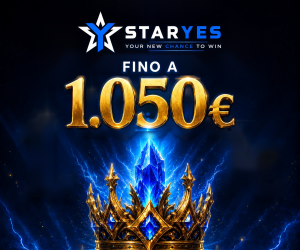
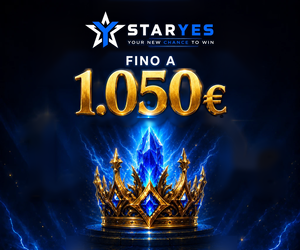
Redo 300x250: no cropped elements, master-density HD, sharper resampling
- Objects (crown, orb, star, podiums) kept whole with bottom space
  proportional to the master; CTA margins increased.
- Rendered directly from master at 960x800 (same density as the
  1024x1536 masters) and at exact 300x250, single Lanczos resample.

Claude-Session: https://claude.ai/code/session_0176yRQt6RuLzx2j9KUFoMCX

diff --git a/tools/build_300x250.py b/tools/build_300x250.py
@@ -1,0 +1,81 @@
+"""300x250 da master 320x480 (forniti a 1024x1536).
+Coordinate di layout in unita' di design 1200x1000; F = scala di render
+(0.8 -> 960x800, stessa densita' del master; 0.25 -> 300x250)."""
+import sys, lib
+from lib import *
+W,H=1200,1000
+SA=1.1725  # ambient: master scalato a copertura larghezza
+
+def headline_rows(cv,E,B,rows,k,y,gap_x=20,gap_y=-5):
+    for row in rows:
+        ws=[(B[key][2]-B[key][0])*k for key in row]; hs=[(B[key][3]-B[key][1])*k for key in row]
+        x=(W-(sum(ws)+gap_x*(len(row)-1)))/2
+        for key,ww in zip(row,ws): paste(cv,*E[key],x,y,k); x+=ww+gap_x
+        y+=max(hs)+gap_y
+    return y
+
+def stack(cv,E,B,keys,gaps,k,y):
+    for key,g in zip(keys,gaps+[0]):
+        ww=(B[key][2]-B[key][0])*k; hh=(B[key][3]-B[key][1])*k
+        paste(cv,*E[key],(W-ww)/2,y,k); y+=hh+g
+    return y
+
+def slide1():
+    src=load(1)
+    B={'scopri':(160,70,865,195),'bonus':(205,192,840,455),'casino':(195,455,850,710),'oggi':(320,712,705,845)}
+    M={k:textmask(src,[b]) for k,b in B.items()}
+    allm=np.zeros_like(M['scopri'])
+    for m in M.values(): allm|=m
+    pl=plate(src,allm)
+    amb=ambient(pl,[(190,800,840,1300),(100,1300,925,1510)])
+    s=0.60; dy=945-1492*s   # CTA bottom a 945 (margine come il top)
+    cv=compose_bg(pl,amb,W,H,SA,-560,s,(W-1024*s)/2,dy,[(225,790,800,1300),(105,1310,920,1505)],f=22)
+    E={key:element(src,M[key],B[key]) for key in B}
+    y=headline_rows(cv,E,B,[['scopri'],['bonus','casino'],['oggi']],0.78,52)
+    return cv,(y,835*s+dy)
+
+def slide5():
+    src=load(5)
+    B={'confronta':(262,62,798,195),'imigliori':(242,195,808,327),'bonus':(162,328,872,560),'casino':(148,560,897,788)}
+    M={k:textmask(src,[b]) for k,b in B.items()}
+    allm=np.zeros_like(M['bonus'])
+    for m in M.values(): allm|=m
+    pl=plate(src,allm)
+    amb=ambient(pl,[(300,740,730,1180),(10,1150,1014,1330),(120,1300,905,1510)])
+    s=0.60; dy=945-1484*s
+    cv=compose_bg(pl,amb,W,H,SA,-560,s,(W-1024*s)/2,dy,[(150,500,875,1150),(140,1150,885,1330),(125,1300,900,1510)],f=32)
+    E={key:element(src,M[key],B[key]) for key in B}
+    y=headline_rows(cv,E,B,[['confronta','imigliori'],['bonus','casino']],0.715,70,gap_x=22,gap_y=0)
+    return cv,(y,775*s+dy)
+
+def brand(i,B,k,top,gaps,s,obj_bottom_src,obj_bottom_canvas,logo_blue=False,sa=SA,amb_boxes=None):
+    src=load(i)
+    M={key:textmask(src,[B[key]],blue=(logo_blue and key=='logo')) for key in B}
+    allm=rectmask(src.shape,[B['logo']])|M['fino']|M['amt']
+    pl=plate(src,allm)
+    dy=obj_bottom_canvas-obj_bottom_src*s
+    amb=ambient(pl,amb_boxes) if amb_boxes else pl
+    cv=compose_bg(pl,amb,W,H,sa,0,s,(W-1024*s)/2,dy,[(70,-300,954,1836)],f=40)
+    E={key:element(src,M[key],B[key]) for key in B}
+    y=stack(cv,E,B,['logo','fino','amt'],gaps,k,top)
+    return cv,(y,dy)
+
+def slide2():
+    B={'logo':(120,58,895,288),'fino':(355,312,665,388),'amt':(68,393,978,688)}
+    # corona intera: punta cristallo 680 -> base piattaforma 1500
+    return brand(2,B,0.68,42,[18,4],0.585,1536,1000,logo_blue=True,amb_boxes=[(225,805,810,900)])  # punte corona tolte dallo sfondo laterale
+def slide3():
+    B={'logo':(195,80,840,285),'fino':(380,340,655,408),'amt':(155,415,875,672)}
+    # podio intero fino a 1450, spazio pavimento sotto come nel master
+    return brand(3,B,0.70,42,[22,6],0.60,1450,950)
+def slide4():
+    B={'logo':(165,92,855,232),'fino':(395,282,625,348),'amt':(220,348,825,568)}
+    return brand(4,B,0.84,46,[30,6],0.58,1445,950)
+
+if __name__=='__main__':
+    F=float(sys.argv[1]); out=sys.argv[2]
+    lib.setF(F)
+    names={1:'01_scopri-bonus-casino',2:'02_staryes-1050',3:'03_netwin-500',4:'04_pokerstars-310',5:'05_confronta-bonus-casino'}
+    for i,fn in [(1,slide1),(2,slide2),(3,slide3),(4,slide4),(5,slide5)]:
+        cv,info=fn()
+        save(cv,f'{out}/{names[i]}.png'); print(i,cv.shape,info)

diff --git a/tools/lib.py b/tools/lib.py
@@ -1,5 +1,10 @@
 import cv2, numpy as np
-def load(i): return cv2.imread(f'{i}.webp').astype(np.float32)
+from PIL import Image
+F=1.0
+def setF(v):
+    global F; F=v
+import glob, os
+def load(i): return cv2.imread(sorted(glob.glob(os.path.join(os.path.dirname(__file__),'..','master','320x480',f'0{i}_*.webp')))[0]).astype(np.float32)
 def textmask(src, boxes, dil=10, blue=False, lt=95):
     m=np.zeros(src.shape[:2],np.uint8)
     b,g,r=[src[...,k] for k in range(3)]
@@ -28,8 +33,12 @@ def element(src, mask, box, feather=2.0):
     a=cv2.GaussianBlur(mask.astype(np.float32),(0,0),feather)[y0:y1,x0:x1]
     return src[y0:y1,x0:x1].copy(), a
 def resize(img, s):
-    return cv2.resize(img,None,fx=s,fy=s,interpolation=cv2.INTER_LANCZOS4 if s>1 else cv2.INTER_AREA)
+    h,w=img.shape[:2]; nw,nh=max(1,int(round(w*s))),max(1,int(round(h*s)))
+    if img.ndim==2:
+        return np.array(Image.fromarray(img.astype(np.float32),'F').resize((nw,nh),Image.LANCZOS))
+    return np.dstack([np.array(Image.fromarray(img[...,c].astype(np.float32),'F').resize((nw,nh),Image.LANCZOS)) for c in range(3)])
 def paste(canvas, rgb, a, x, y, s):
+    x*=F; y*=F; s*=F
     r=resize(rgb,s); aa=np.clip(resize(a,s),0,1)[...,None]
     h,w=r.shape[:2]; x=int(round(x)); y=int(round(y))
     canvas[y:y+h,x:x+w]=canvas[y:y+h,x:x+w]*(1-aa)+r*aa
@@ -47,11 +56,9 @@ def bg_canvas(pl, W, H, s, dy):
     out[yd:yd+h]=big[ys:ys+h]
     if yd>0: out[:yd]=big[ys:ys+1]  # shouldn't happen much
     return out, x0
-def save(canvas, path, W=300, H=250):
-    c=np.clip(canvas,0,255).astype(np.uint8)
-    cv2.imwrite(path.replace('.png','_work.png'),c)
-    f=cv2.resize(c,(W,H),interpolation=cv2.INTER_AREA)
-    cv2.imwrite(path,f)
+def save(canvas, path):
+    c=np.clip(np.round(canvas),0,255).astype(np.uint8)
+    cv2.imwrite(path,c)
 def rectmask(shape, boxes):
     m=np.zeros(shape[:2],np.uint8)
     for x0,y0,x1,y1 in boxes: m[y0:y1,x0:x1]=1
@@ -71,7 +78,7 @@ def feathered_rect(h,w,box,f):
     m[max(0,y0):y1,max(0,x0):x1]=1
     return cv2.GaussianBlur(m,(0,0),f)
 def compose_bg(pl, amb, W,H, s_amb, y_amb, s_obj, x_obj, y_obj, objbox, f=40):
-    """amb scaled s_amb, top at canvas y_amb (negative crops). plate scaled s_obj at (x_obj,y_obj), blended within objbox (src coords)."""
+    W=int(round(W*F)); H=int(round(H*F)); s_amb*=F; y_amb=int(round(y_amb*F)); s_obj*=F; x_obj*=F; y_obj*=F; f*=F
     a=resize(amb,s_amb); ah,aw=a.shape[:2]
     xa=(W-aw)//2
     cv=np.zeros((H,W,3),np.float32)
